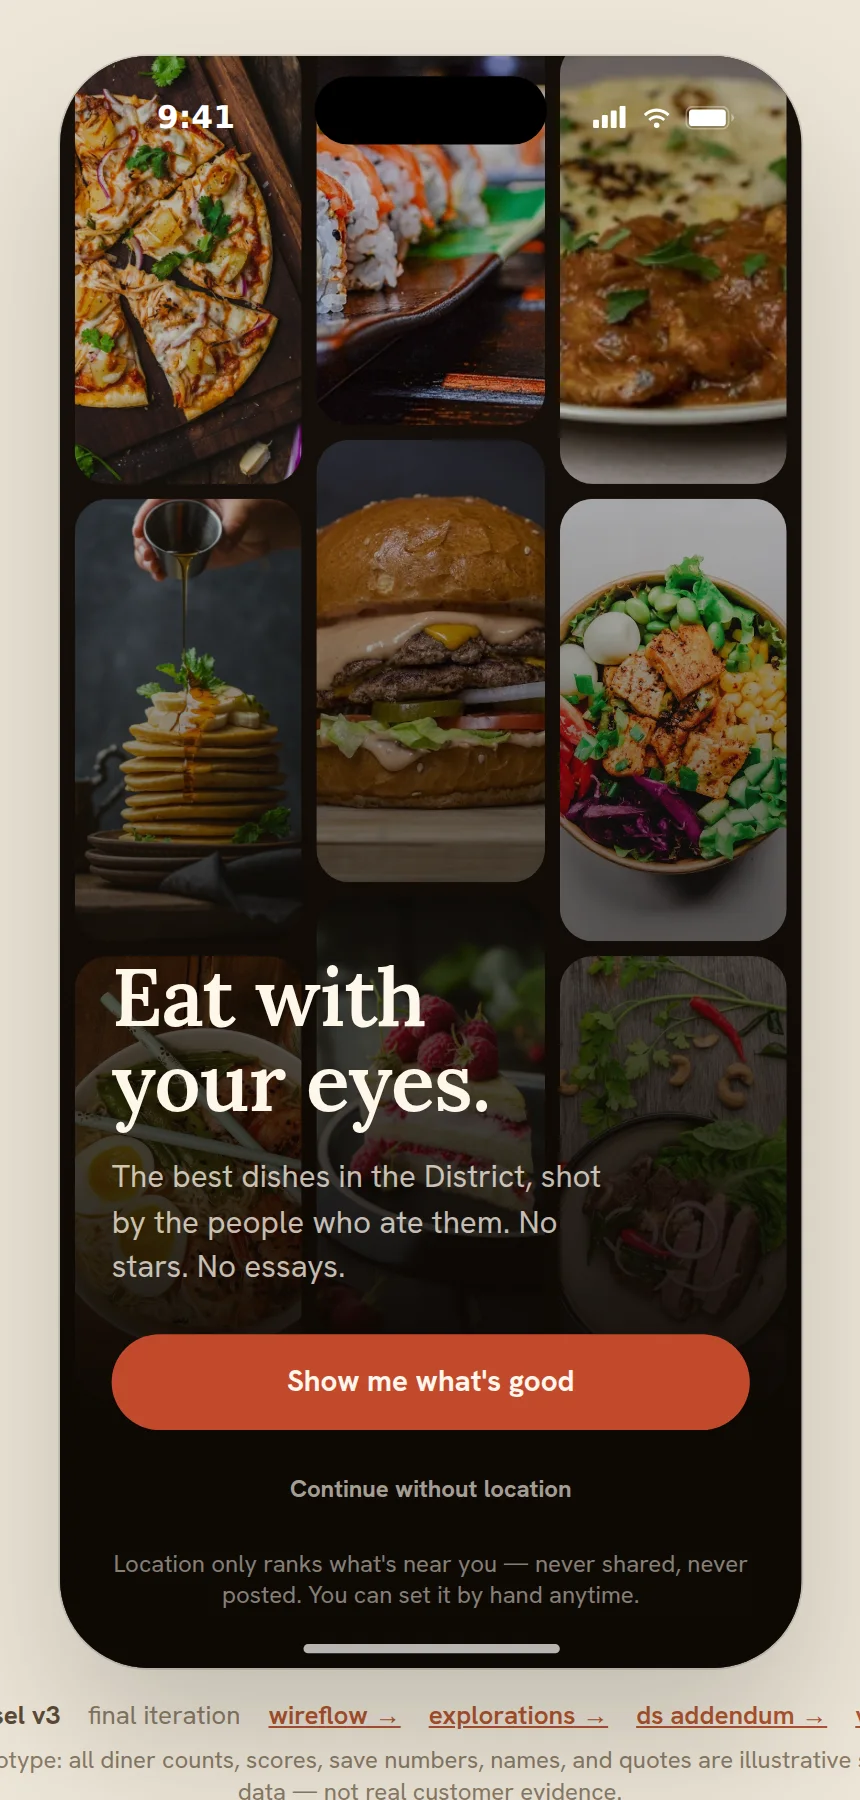
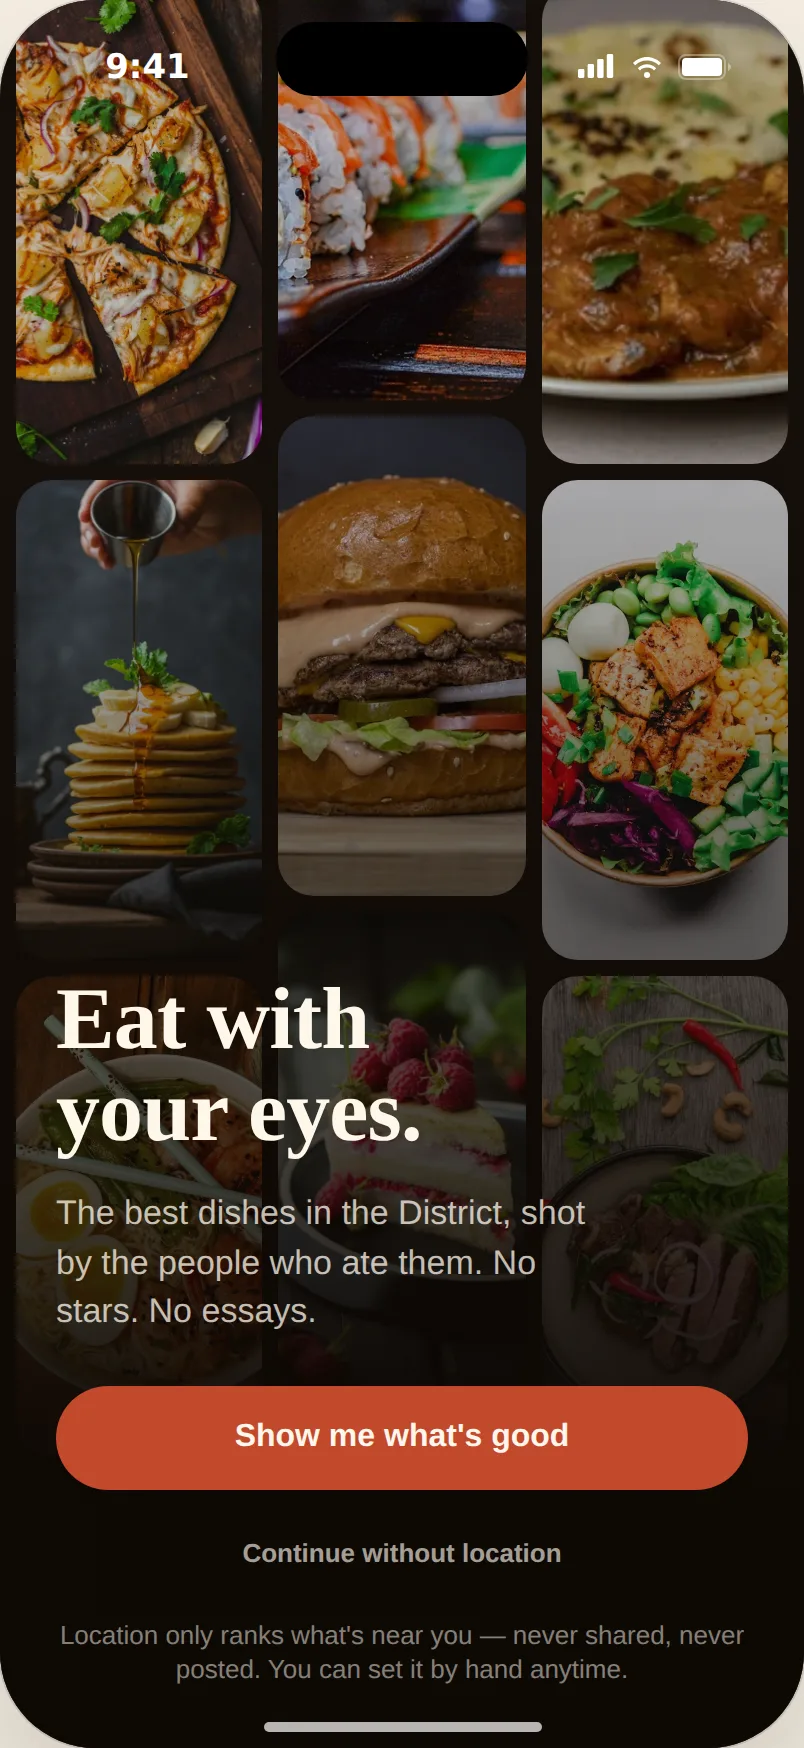
Embed the Morsel prototype as a real phone, not a scaled window
The case-study embed loaded the prototype's full wrapper page: its own
iOS bezel inside our phone frame, the footer doc links clipped at the
edges, and everything scaled down to fit. The footer also carried a
"v2 →" link to morsel.html, so a click inside the embed replaced the
prototype with the case-study page nested in the phone frame.

- morsel-proto now honours ?bare (as tenet-proto already did): the app
  renders at its own 402x874 with no page furniture or outer scaling
- the case-study stage loads ?bare at 1:1 and, via data-chrome="device",
  drops our own bezel so the prototype's is the only frame
- prototype footer links get target="_top" so they can never trap a
  frame, and the mislabelled "v2 →" now reads "case study →"
- re-captured the stage poster from the bare prototype so the preview
  matches what loads

Claude-Session: https://claude.ai/code/session_01GhGr5hWKi6tK7SpSnq82Gm

diff --git a/morsel-proto/v3/app/app.jsx b/morsel-proto/v3/app/app.jsx
@@ -264,13 +264,28 @@ function MorselApp() {
 }
 
 // ---- page mount: phone centered + scaled to fit viewport ----
+// ?bare drops the page furniture (footer links, outer scaling) so the app can be
+// embedded at its true size — the case-study page supplies the surrounding frame.
+function isBare() {
+  try { return /[?&]bare/.test(window.location.search); } catch (e) { return false; }
+}
+
 function MorselPage() {
   const [scale, setScale] = React.useState(1);
+  const bare = isBare();
   React.useEffect(() => {
+    if (bare) return;
     const fit = () => setScale(Math.min(1, (window.innerHeight - 70) / 900));
     fit(); window.addEventListener("resize", fit);
     return () => window.removeEventListener("resize", fit);
-  }, []);
+  }, [bare]);
+  if (bare) {
+    return (
+      <div style={{ width: 402, height: 874, margin: "0 auto" }}>
+        <MorselApp />
+      </div>
+    );
+  }
   return (
     <div style={{ minHeight: "100vh", display: "flex", flexDirection: "column", alignItems: "center", justifyContent: "center", gap: 14, padding: "16px 0" }}>
       <div style={{ width: 402 * scale, height: 874 * scale }}>
@@ -282,10 +297,10 @@ function MorselPage() {
         <div style={{ display: "flex", gap: 14, alignItems: "center", whiteSpace: "nowrap" }}>
           <span style={{ fontWeight: 700, color: "#5C4B38" }}>Morsel v3</span>
           <span>final iteration</span>
-          <a href="../morsel-docs/wireflow.html" style={{ color: "#B0542F", fontWeight: 600 }}>wireflow →</a>
-          <a href="../morsel-docs/explorations.html" style={{ color: "#B0542F", fontWeight: 600 }}>explorations →</a>
-          <a href="../morsel-docs/ds-addendum.html" style={{ color: "#B0542F", fontWeight: 600 }}>ds addendum →</a>
-          <a href="../morsel.html" style={{ color: "#B0542F", fontWeight: 600 }}>v2 →</a>
+          <a href="../morsel-docs/wireflow.html" target="_top" style={{ color: "#B0542F", fontWeight: 600 }}>wireflow →</a>
+          <a href="../morsel-docs/explorations.html" target="_top" style={{ color: "#B0542F", fontWeight: 600 }}>explorations →</a>
+          <a href="../morsel-docs/ds-addendum.html" target="_top" style={{ color: "#B0542F", fontWeight: 600 }}>ds addendum →</a>
+          <a href="../morsel.html" target="_top" style={{ color: "#B0542F", fontWeight: 600 }}>case study →</a>
         </div>
         <div style={{ fontSize: 12, maxWidth: 560, textAlign: "center" }}>Prototype: all diner counts, scores, save numbers, names, and quotes are illustrative seed data — not real customer evidence.</div>
       </div>

diff --git a/morsel.html b/morsel.html
@@ -77,13 +77,13 @@
       <section class="proj-sec" id="try" aria-label="Try the Morsel prototype">
         <div class="rule"></div>
         <div class="sechead"><span class="lead" data-ed="20">TRY THE PROTOTYPE</span><span>V3 BUILD &middot; ILLUSTRATIVE DATA</span></div>
-        <div class="demo-stage rv" data-src="morsel-proto/index.html" data-w="430" data-h="900" data-poster="images/morsel/stage-morsel.webp" data-title="Morsel v3 interactive prototype — onboarding, feed, dish detail, saves, and the allergy-gated order sheet">
+        <div class="demo-stage rv" data-src="morsel-proto/index.html?bare" data-w="402" data-h="874" data-chrome="device" data-poster="images/morsel/stage-morsel.webp" data-title="Morsel v3 interactive prototype — onboarding, feed, dish detail, saves, and the allergy-gated order sheet">
           <div class="demo-head">
             <span class="demo-kicker">MORSEL V3 &middot; FULL FLOW</span>
-            <a class="demo-open" href="morsel-proto/index.html">OPEN FULL PROTOTYPE &#8599;</a>
+            <a class="demo-open" href="morsel-proto/index.html" target="_blank" rel="noopener">OPEN FULL PROTOTYPE &#8599;</a>
           </div>
           <div class="demo-frame">
-            <div class="demo-poster"><img src="images/morsel/stage-morsel.webp" alt="Poster: the Morsel v3 prototype welcome screen — 'Eat with your eyes' over a dish photo grid, with Show me what's good and Continue without location" width="430" height="900" data-ed="21" /></div>
+            <div class="demo-poster"><img src="images/morsel/stage-morsel.webp" alt="Poster: the Morsel v3 prototype welcome screen — 'Eat with your eyes' over a dish photo grid, with Show me what's good and Continue without location" width="402" height="874" data-ed="21" /></div>
             <button class="demo-load">&#9654;&ensp;TRY THE LIVE PROTOTYPE</button>
           </div>
           <div class="demo-foot">

diff --git a/script.js b/script.js
@@ -146,13 +146,18 @@
         w: parseInt(el.getAttribute("data-w"), 10),
         h: parseInt(el.getAttribute("data-h"), 10),
         poster: el.getAttribute("data-poster"),
-        title: el.getAttribute("data-title") || "Interactive prototype"
+        title: el.getAttribute("data-title") || "Interactive prototype",
+        // "device": the prototype draws its own phone bezel, so the stage
+        // must not wrap it in a second one
+        chrome: el.getAttribute("data-chrome")
       };
     }
     function fit() {
       var c = current; if (!c) return;
       var cw = frame.clientWidth;
-      var scale = cw / c.w;
+      // a device-chrome prototype renders at its own pixel size; only shrink it
+      // when the column is genuinely narrower than the phone
+      var scale = c.chrome === "device" ? Math.min(1, cw / c.w) : cw / c.w;
       frame.style.height = Math.round(c.h * scale) + "px";
       if (iframe) {
         iframe.style.width = c.w + "px";
@@ -164,6 +169,7 @@
       var c = cfg(); current = c;
       frame.classList.toggle("is-wide", c.w > 700);
       frame.classList.toggle("is-phone", c.w <= 700);
+      frame.classList.toggle("is-device", c.chrome === "device");
       if (posterImg && c.poster) { posterImg.src = c.poster; }
       if (openLink) openLink.href = c.src;
       fit();

diff --git a/styles.css b/styles.css
@@ -985,6 +985,10 @@ a.bar-loc:hover { color: var(--gold); }
 .demo-open { margin-left: auto; font-family: var(--mono); font-size: 11px; letter-spacing: 0.08em; font-weight: 600; color: var(--rose-link); border-bottom: 1.5px solid var(--rose-2); padding-bottom: 2px; }
 .demo-frame { position: relative; border-radius: 18px; overflow: hidden; border: 1px solid rgba(74,59,44,0.2); box-shadow: 0 22px 44px rgba(30,18,8,0.16); background: #101318; }
 .demo-frame.is-phone { max-width: 400px; margin: 0 auto; border-radius: 30px; }
+/* the prototype supplies its own device bezel: drop ours so there is no
+   frame inside a frame, and let the page ground show through */
+.demo-frame.is-device { max-width: 402px; border: 0; background: transparent; box-shadow: none; border-radius: 0; overflow: visible; }
+.demo-frame.is-device iframe { background: transparent; }
 .demo-frame iframe { position: absolute; left: 0; top: 0; border: 0; transform-origin: 0 0; background: #fff; }
 /* shown when a loaded embed is still blank after a few seconds (blocked CDN etc.) */
 .demo-stall {
